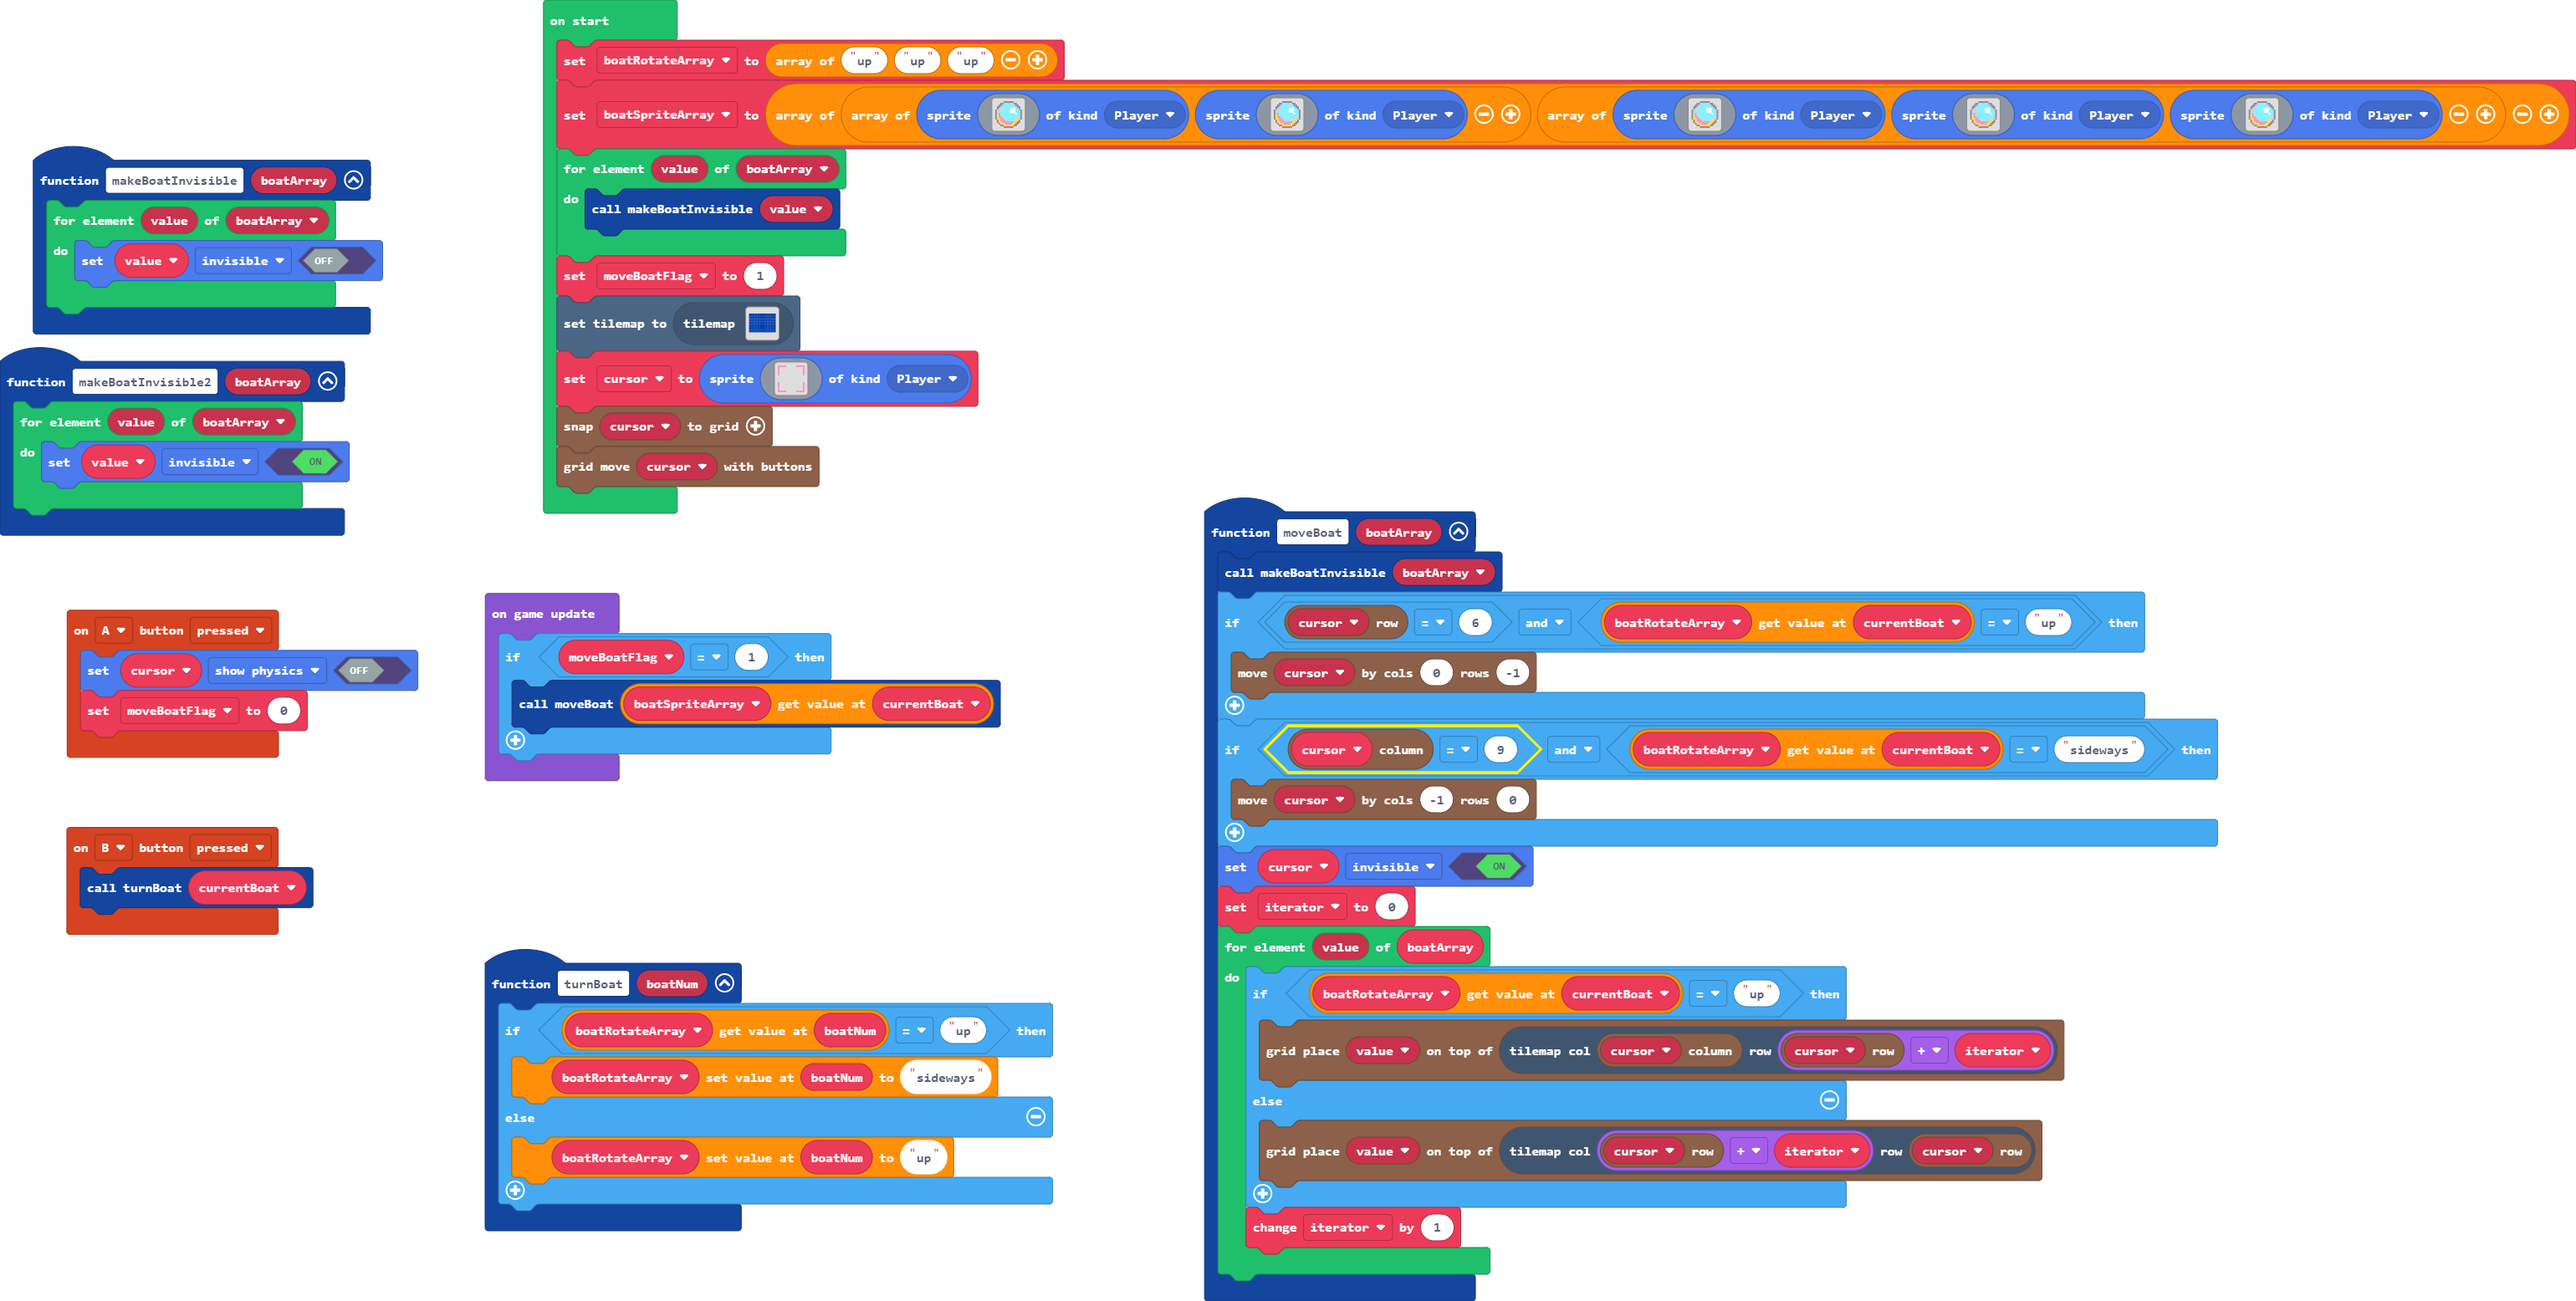
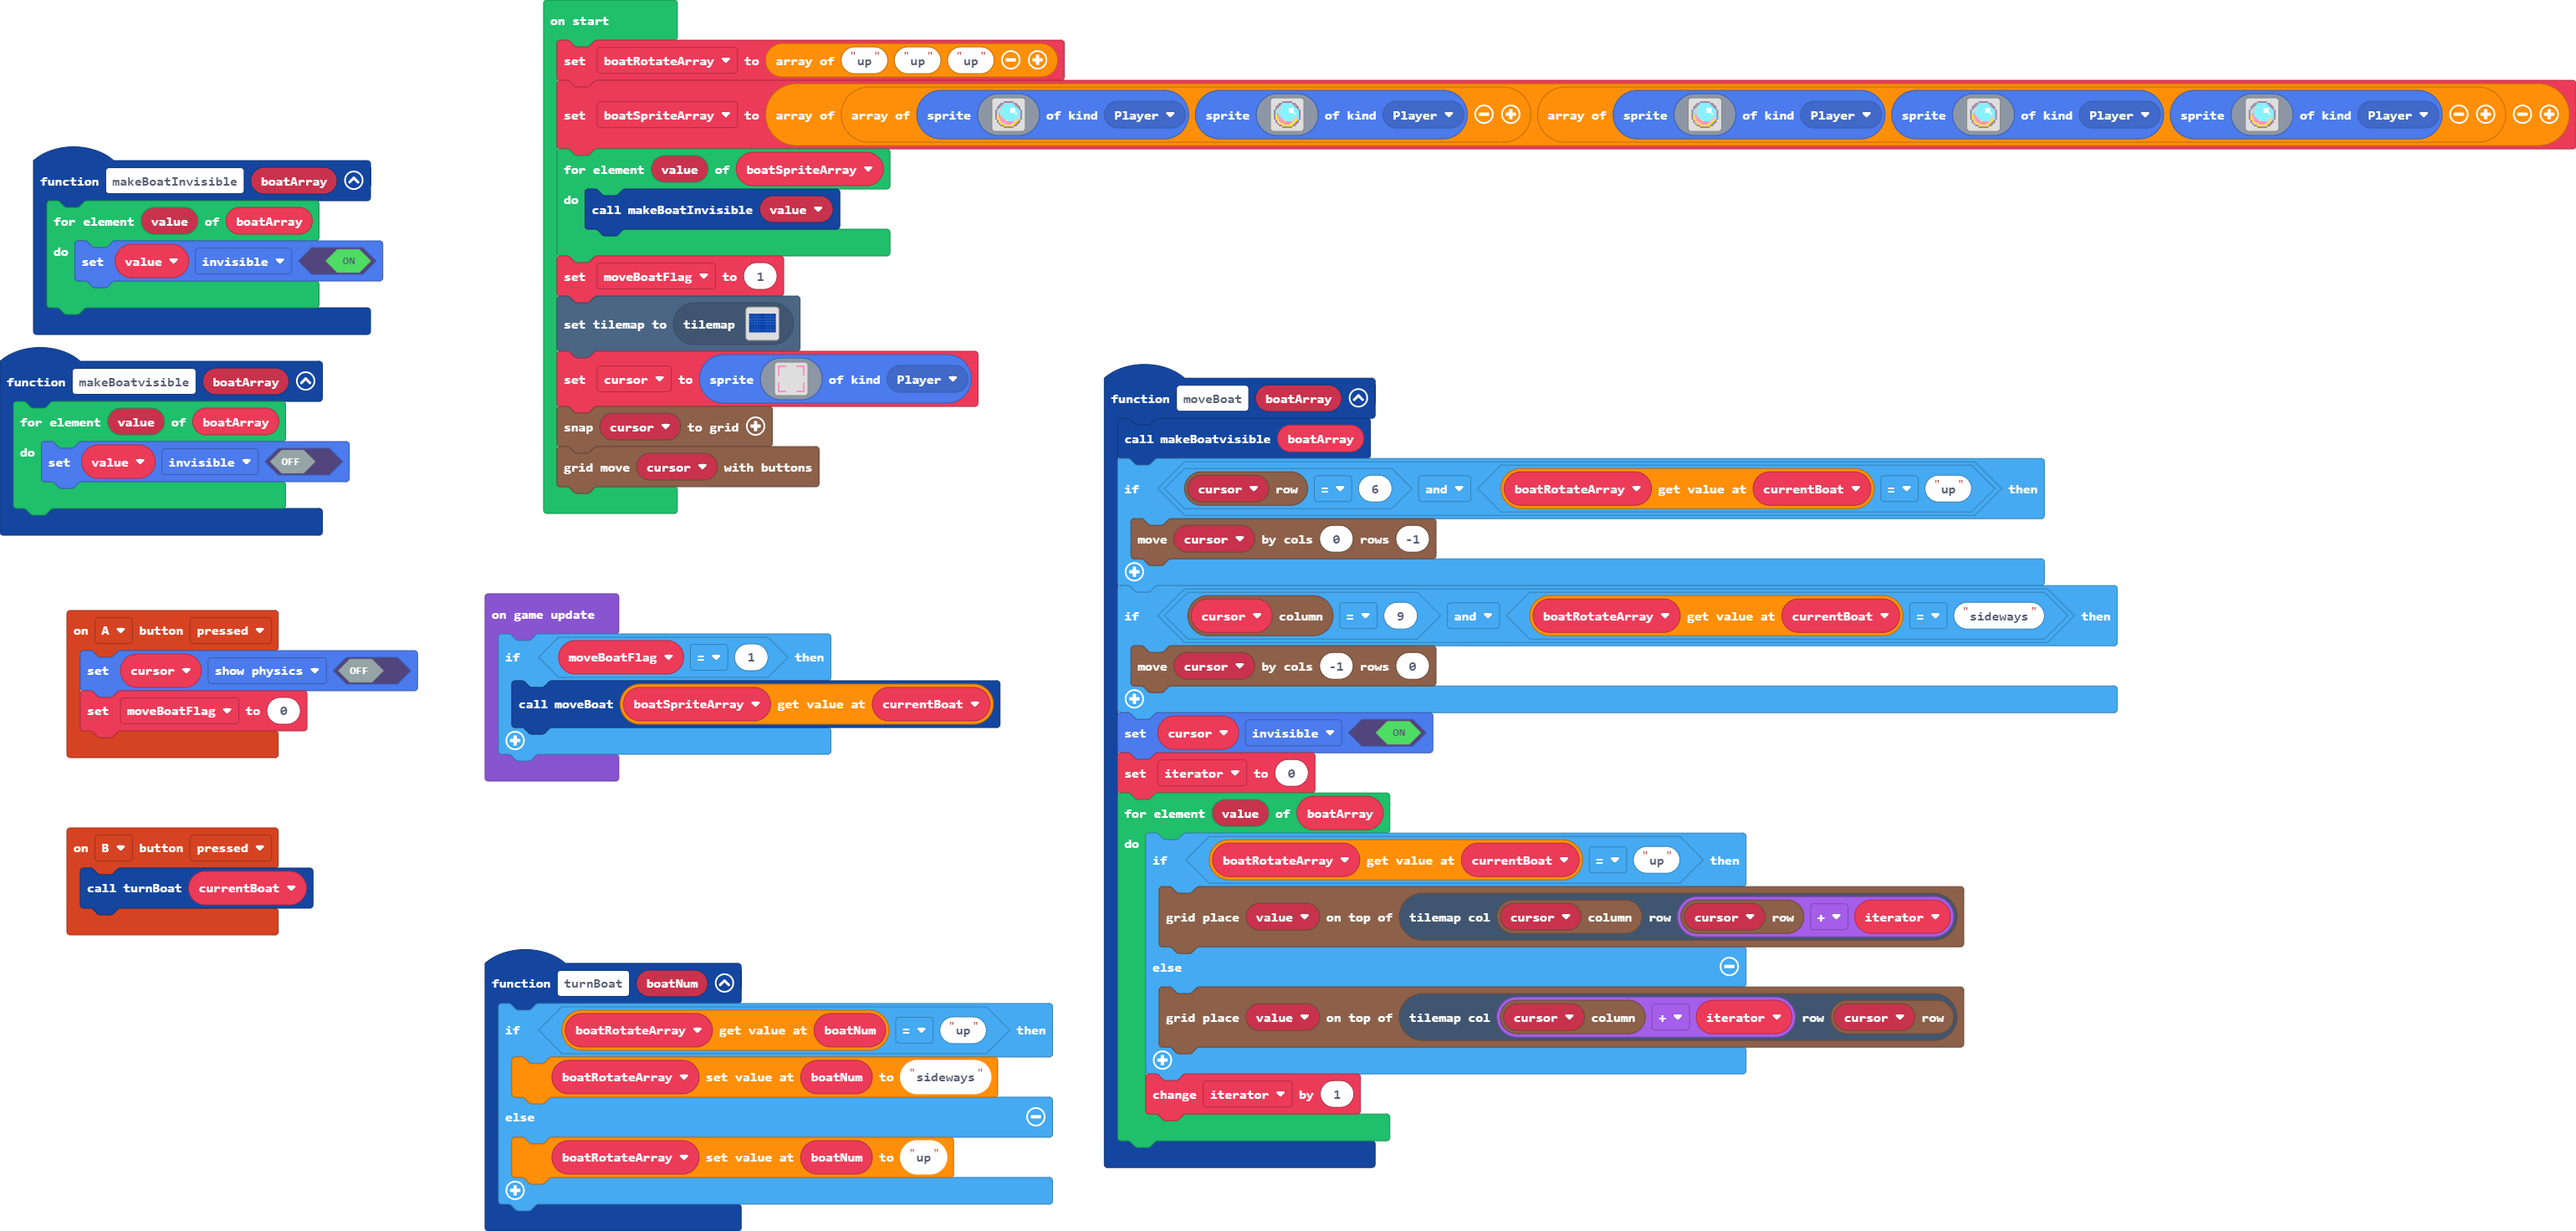
boat rotate

diff --git a/main.ts b/main.ts
@@ -1,4 +1,3 @@
-let boatArray: Array[] = []
 controller.B.onEvent(ControllerButtonEvent.Pressed, function () {
     turnBoat(currentBoat)
 })
@@ -6,13 +5,13 @@ controller.A.onEvent(ControllerButtonEvent.Pressed, function () {
     cursor.setFlag(SpriteFlag.ShowPhysics, false)
     moveBoatFlag = 0
 })
-function makeBoatInvisible2 (boatArray: Sprite[]) {
+function makeBoatvisible (boatArray: Sprite[]) {
     for (let value of boatArray) {
-        value.setFlag(SpriteFlag.Invisible, true)
+        value.setFlag(SpriteFlag.Invisible, false)
     }
 }
 function moveBoat (boatArray: any[]) {
-    makeBoatInvisible(boatArray)
+    makeBoatvisible(boatArray)
     if (grid.spriteRow(cursor) == 6 && boatRotateArray[currentBoat] == "up") {
         grid.move(cursor, 0, -1)
     }
@@ -25,14 +24,14 @@ function moveBoat (boatArray: any[]) {
         if (boatRotateArray[currentBoat] == "up") {
             grid.place(value, tiles.getTileLocation(grid.spriteCol(cursor), grid.spriteRow(cursor) + iterator))
         } else {
-            grid.place(value, tiles.getTileLocation(grid.spriteRow(cursor) + iterator, grid.spriteRow(cursor)))
+            grid.place(value, tiles.getTileLocation(grid.spriteCol(cursor) + iterator, grid.spriteRow(cursor)))
         }
         iterator += 1
     }
 }
 function makeBoatInvisible (boatArray: Sprite[]) {
     for (let value of boatArray) {
-        value.setFlag(SpriteFlag.Invisible, false)
+        value.setFlag(SpriteFlag.Invisible, true)
     }
 }
 function turnBoat (boatNum: number) {
@@ -134,7 +133,7 @@ let boatSpriteArray = [[sprites.create(img`
     . . . b b 5 5 5 5 5 5 b b . . . 
     . . . . . b b b b b b . . . . . 
     `, SpriteKind.Player)]]
-for (let value of boatArray) {
+for (let value of boatSpriteArray) {
     makeBoatInvisible(value)
 }
 moveBoatFlag = 1
